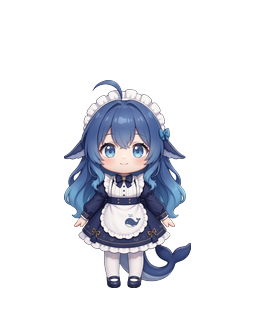
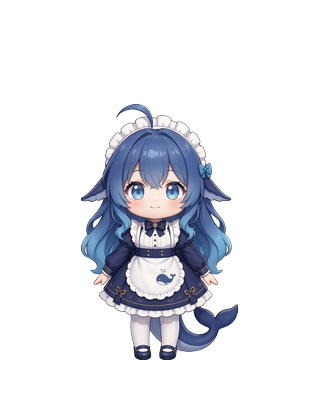
feat(pet): 渲染尺寸 104 → 128 CSS px，画布改 320x400
尺寸（-pet-char-height 104 → 128，目标区间 120~130）：
- 实测角色显示 127~128 px（上一版 104，+23%）
- 画布随之改 320x400，角色 256px = 64%，锚点 (160, 360)
- 显示缩放仍 0.5x → 窗口 160x200 CSS px
- 选 320x400/0.5x 的原因：2x Retina 下 128 CSS px = 256 设备像素
  = 画布角色高度，像素级对齐
- main.swift 窗口 128x160 → 160x200，命中区重算
- 仍未加入 Size Slider

占位素材按新几何重排（从 gen2 原始渲染重新抠图，避免二次缩放）：
- 320x400 画布、角色 157x256、脚底 y=360、头顶留白 104、脚下留白 40

ASSET_SPEC v3（v2 数值作废）：
- 画布/锚点/留白/显示尺寸全部重算
- 比例预算按 H=256 重算（头 141 / 躯干 64 / 腿 51，仍 1.82 heads）
- 可读性阈值随尺寸上调（眼睛 ≥ 24 画布 px）
- 精灵图每行 6 帧（6x320=1920px）
- 明确标注：占位素材是旧设计(2.5~3 heads)，头身比必须靠新素材解决，
  runtime 不会用 CSS scale/transform 伪装比例

diff --git a/desktop/main.swift b/desktop/main.swift
@@ -40,11 +40,11 @@ final class AppDelegate: NSObject, NSApplicationDelegate {
     var pinned = true
     var moveMonitor: Any?
 
-    // 窗口 = 素材画布的实际显示尺寸（256×320 画布 @ 0.5 缩放）。
-    // 角色本体占画布高度 65%，对应屏幕高度 104 CSS px。
+    // 窗口 = 素材画布的实际显示尺寸（320×400 画布 @ 0.5 缩放）。
+    // 角色本体占画布高度 64%，对应屏幕高度 128 CSS px。
     // 改大小：同时改 web/pet.css 的 --pet-char-height 和这两个值。
-    let winW: CGFloat = 128
-    let winH: CGFloat = 160
+    let winW: CGFloat = 160
+    let winH: CGFloat = 200
 
     func applicationDidFinishLaunching(_ notification: Notification) {
         NSApp.setActivationPolicy(.accessory)      // 不占 Dock
@@ -105,12 +105,12 @@ final class AppDelegate: NSObject, NSApplicationDelegate {
         guard !dragging else { return }
         let mouse = NSEvent.mouseLocation
         let f = window.frame
-        // 角色本体在画布里的位置：x 25%~75%，y（自底）10%~75%。
+        // 角色本体在画布里的位置：x 25%~75%，y（自底）10%~74%。
         // 命中区只覆盖角色，其余区域穿透鼠标。
-        let hit = NSRect(x: f.minX + f.width * 0.22,
+        let hit = NSRect(x: f.minX + f.width * 0.23,
                          y: f.minY + f.height * 0.07,
-                         width: f.width * 0.56,
-                         height: f.height * 0.71)
+                         width: f.width * 0.54,
+                         height: f.height * 0.70)
         window.ignoresMouseEvents = !hit.contains(mouse)
     }
 

diff --git a/web/pet.css b/web/pet.css
@@ -19,11 +19,11 @@ html, body {
    Asset 分辨率与渲染尺寸彻底解耦。
    以后要改大小，只动 --pet-char-height 这一个值。 */
 :root {
-  /* 角色本体的屏幕显示高度。目标 96~112 CSS px（Codex Pet 量级）。 */
-  --pet-char-height: 104px;
+  /* 角色本体的屏幕显示高度。目标 120~130 CSS px。 */
+  --pet-char-height: 128px;
   /* 角色在画布中的高度占比 —— 由素材规格决定，见 ASSET_SPEC.md §1 */
-  --pet-char-in-canvas: 0.65;
-  /* 画布宽高比 256 : 320 */
+  --pet-char-in-canvas: 0.64;
+  /* 画布宽高比 320 : 400 */
   --pet-aspect: 0.8;
   /* 由上面推导，不要直接改 */
   --pet-canvas-height: calc(var(--pet-char-height) / var(--pet-char-in-canvas));
@@ -44,7 +44,7 @@ html, body {
   width: calc(var(--pet-canvas-height) * var(--pet-aspect));
   cursor: grab;
   /* 沿角色轮廓投影（不是 box-shadow），制造"浮在桌面上"的感觉 */
-  filter: drop-shadow(0 5px 9px rgba(20, 30, 60, .22));
+  filter: drop-shadow(0 6px 11px rgba(20, 30, 60, .22));
   transform-origin: 50% 100%;
   transition: filter .25s ease;
   animation: petBreathe 3.8s ease-in-out infinite;

diff --git a/ASSET_SPEC.md b/ASSET_SPEC.md
@@ -1,10 +1,8 @@
-# WorkBuddy Pet — Character Asset Specification (v2)
+# WorkBuddy Pet — Character Asset Specification (v3)
 
 > 面向「制作素材的人 / 模型」。**按动画剪辑组织**，不是姿势图片。
-> v2 相对 v1 的变化：渲染尺寸与画布几何重定、身体比例收敛到 Desktop Mascot 比例、
-> 剪辑清单对齐到 10 个。
->
-> **v2 全表以此为唯一依据，v1 的旧数值（384×512 画布等）全部作废。**
+> v3 相对 v2 的变化：渲染尺寸 104 → **128 CSS px**，画布随之改为 **320 × 400**。
+> **v3 全表以此为唯一依据，v2 / v1 的旧数值全部作废。**
 
 ---
 
@@ -12,17 +10,20 @@
 
 | 概念 | 值 | 谁决定 |
 |---|---|---|
-| **Asset Resolution（素材分辨率）** | 单帧画布 **256 × 320** | 出图时定，保证 Retina 清晰 |
-| **Rendered Size（屏幕渲染尺寸）** | 角色本体 **104 CSS px 高** | 运行时一个配置项决定 |
+| **Asset Resolution（素材分辨率）** | 单帧画布 **320 × 400**（**可以更高**，如 512×640） | 出图时定，保证 Retina 清晰 |
+| **Rendered Size（屏幕渲染尺寸）** | 角色本体 **128 CSS px 高** | 运行时一个配置项决定 |
 
-**不要因为画布是 256×320 就按原始像素显示。** 两者完全解耦：
-画布按 2× 于渲染尺寸出图，屏幕上只占 128×160 CSS px。
+**不要因为画布是 320×400 就按原始像素显示。** 两者完全解耦：
+画布按 **0.5×** 显示 → 屏幕上只占 **160 × 200 CSS px**，角色本体 128 CSS px。
+
+在 **2× Retina** 上：128 CSS px = 256 设备像素 = 画布上的角色高度 → **像素级对齐，最清晰**。
+这也是选 320×400 / 0.5× 这组数的原因。画布可以出得更大（如 512×640），同样按 0.5× 显示即可。
 
 改大小的唯一旋钮（我这边已实现，你不需要管）：
 
 ```
-web/pet.css  →  --pet-char-height: 104px;     /* 目标区间 96~112 */
-desktop/main.swift → winW = 128, winH = 160   /* 画布显示尺寸 */
+web/pet.css  →  --pet-char-height: 128px;      /* 目标区间 120~130 */
+desktop/main.swift → winW = 160, winH = 200    /* 画布显示尺寸 */
 ```
 
 **当前版本不提供大小调节 UI**，只保留这个默认值。
@@ -33,64 +34,66 @@ desktop/main.swift → winW = 128, winH = 160   /* 画布显示尺寸 */
 
 | 项 | 规格 |
 |---|---|
-| **单帧画布** | **256 × 320 px**（4:5） |
-| **锚点 / Pivot** | **双脚中心 = (128, 288)**，即 `x = 50%, y = 90%` |
-| **角色高度** | **208 px = 画布的 65%** |
-| **脚下留白** | **32 px**（画布底 → 脚底）→ 落地压缩、下蹲用 |
-| **头顶留白** | **80 px**（头顶 → 画布顶）→ 跳跃、举手、被抓起用 |
-| **显示缩放** | **0.5×** → 画布显示为 128×160 CSS px，角色 = 104 CSS px |
+| **单帧画布** | **320 × 400 px**（4:5） |
+| **锚点 / Pivot** | **双脚中心 = (160, 360)**，即 `x = 50%, y = 90%` |
+| **角色高度** | **256 px = 画布的 64%** |
+| **脚下留白** | **40 px**（画布底 → 脚底）→ 落地压缩、下蹲用 |
+| **头顶留白** | **104 px**（头顶 → 画布顶）→ 跳跃、举手、被抓起用 |
+| **显示缩放** | **0.5×** → 画布显示为 160×200 CSS px，角色 = 128 CSS px |
 | **背景** | 全透明 RGBA，四角 `alpha = 0` |
-| **对齐要求** | **所有帧**脚底落在 `y = 288 ± 4`，水平中心落在 `x = 128 ± 6` |
+| **对齐要求** | **所有帧**脚底落在 `y = 360 ± 5`，水平中心落在 `x = 160 ± 8` |
 
 > 锚点统一是硬要求。锚点一飘，切换剪辑时角色就会上下跳。
 
 ### 精灵图排列
 
-- 一行一个剪辑，**水平条带，每行最多 8 帧**，超出换行
+- 一行一个剪辑，**水平条带，每行最多 6 帧**，超出换行
+  （6 × 320 = 1920 px，安全宽度）
 - 帧与帧**无间隙**，从左到右、从上到下
-- 每帧严格 256×320；12 帧 → 2 行（8 + 4），第二行右侧补透明
+- 每帧严格 320×400；12 帧 → 2 行（6 + 6）
 
 ---
 
 ## 2. 身体比例（这一版最重要的改动）
 
-当前素材是「小型动漫人物」，偏 2.5~3 heads。**要收敛到 Desktop Mascot 比例：**
+当前占位素材是「小型动漫人物」，约 2.5~3 heads —— **那不是最终版**。
+**要收敛到 Desktop Mascot 比例：**
 
 ### 目标：整个角色只有 **1.7 ~ 1.9 个头高**
 
-以 `H = 208 px`（角色总高）为基准：
+以 `H = 256 px`（角色总高）为基准：
 
 | 部位 | 占比 | 像素 | 说明 |
 |---|---|---|---|
-| **头**（颅顶 → 下巴，含头发体积） | **0.55 H** | **≈ 114 px** | 非常大、圆润，**视觉中心** |
-| **躯干**（下巴 → 胯） | **0.25 H** | **≈ 52 px** | 明显缩短，**不要腰身、不要长躯干** |
-| **腿 + 鞋**（胯 → 脚底） | **0.20 H** | **≈ 42 px** | 非常短 |
-| 合计 | 1.00 H | 208 px | → **1.82 heads** ✓ |
+| **头**（颅顶 → 下巴，含头发体积） | **0.55 H** | **≈ 141 px** | 非常大、圆润，**视觉中心** |
+| **躯干**（下巴 → 胯） | **0.25 H** | **≈ 64 px** | 明显缩短，**不要腰身、不要长躯干** |
+| **腿 + 鞋**（胯 → 脚底） | **0.20 H** | **≈ 51 px** | 非常短 |
+| 合计 | 1.00 H | 256 px | → **1.82 heads** ✓ |
 
 ### 横向与四肢
 
 | 项 | 规格 | 像素 |
 |---|---|---|
-| 头宽 | ≈ 0.52 H（接近头高，圆润） | ≈ 108 px |
-| 肩宽 | ≈ 0.30 H | ≈ 62 px |
-| 手臂长度 | ≈ 0.18 H（**短、小、圆**） | ≈ 37 px |
-| 手臂粗细 | ≈ 0.055 H | ≈ 11 px |
-| 手 | 小圆球 | 直径 ≈ 15 px |
-| 鞋长 | 小 | ≈ 21 px |
-| **整体 bounding box 宽** | **≤ 0.80 H** | **≤ 166 px**（画布 256 的 65%） |
+| 头宽 | ≈ 0.52 H（接近头高，圆润） | ≈ 133 px |
+| 肩宽 | ≈ 0.30 H | ≈ 77 px |
+| 手臂长度 | ≈ 0.18 H（**短、小、圆**） | ≈ 46 px |
+| 手臂粗细 | ≈ 0.055 H | ≈ 14 px |
+| 手 | 小圆球 | 直径 ≈ 18 px |
+| 鞋长 | 小 | ≈ 26 px |
+| **整体 bounding box 宽** | **≤ 0.80 H** | **≤ 205 px**（画布 320 的 64%） |
 
 **禁止**：正常人体比例的长手臂、明显腰线、修长腿。不能看起来像"缩小的人类"。
 
 ### 头发（关键，容易把角色撑大）
 
-- 保留蓝色长发 identity，但**压缩长度与横向展开**
-- **发梢末端不得低于「脚底往上 0.15 H」**（≈ 31 px）—— 即**不要拖到脚**
+- 保留蓝色长发 identity，但**压缩长度与横向展开（shape compression）**
+- **发梢末端不得低于「脚底往上 0.15 H」**（≈ 38 px）—— 即**不要拖到脚**
 - **横向展开 ≤ 0.42 H**（每侧 ≤ 0.21 H）
 - 后发的"体积"计入头高，但飘散的细发丝不计入 bounding box 预算
 
 ### 尾巴（Species Identity，允许略大）
 
-- 可以比身体略大 —— 这是最重要的识别特征
+- 可以比身体略大 —— 这是最重要的识别特征，**要相对醒目**
 - 但**横向展开 ≤ 0.35 H**，**垂直高度 ≤ 0.25 H**
 - **不允许尾巴把整体 bounding box 撑宽**（尾巴要收在 0.80 H 的预算内）
 
@@ -102,17 +105,17 @@ desktop/main.swift → winW = 128, winH = 160   /* 画布显示尺寸 */
 
 ---
 
-## 3. 小尺寸可读性（104 px 下的硬约束）
+## 3. 小尺寸可读性（128 px 下的硬约束）
 
-角色在屏幕上只有 104 px 高，**动画不能依赖细微动作**。换算关系：
-**1 画布 px ≈ 0.5 CSS px**，所以最小可辨笔画 **≥ 8 画布 px（= 4 CSS px）**。
+角色在屏幕上只有 128 px 高，**动画不能依赖细微动作**。换算关系：
+**1 画布 px = 0.5 CSS px**，所以最小可辨笔画 **≥ 8 画布 px（= 4 CSS px）**。
 
 | 部位 | 最小尺寸 | 画布 px |
 |---|---|---|
-| 眼睛（直径） | 主识别区，要大 | **≥ 20 px** |
-| 嘴（高度） | 大表情才画 | ≥ 6 px |
+| 眼睛（直径） | 主识别区，要大 | **≥ 24 px** |
+| 嘴（高度） | 大表情才画 | ≥ 8 px |
 | 头部轮廓 | 必须清晰 | — |
-| 尾巴宽度 | 摆动要看得见 | ≥ 12 px |
+| 尾巴宽度 | 摆动要看得见 | ≥ 15 px |
 
 **语义必须靠这些表达**：
 头部角度 / 整体姿态 / 尾巴方向 / 大表情 / 道具轮廓（如小电脑）
@@ -237,7 +240,7 @@ desktop/main.swift → winW = 128, winH = 160   /* 画布显示尺寸 */
 
 ### 7) `work` — 12 帧 / 10fps / 循环
 
-**不要画手指敲键盘**（104px 下看不见）。用**大姿态**表达：
+**不要画手指敲键盘**（128px 下看不见）。用**大姿态**表达：
 
 | 帧 | 相位 |
 |---|---|
@@ -326,13 +329,13 @@ assets/pet/
 
 ```json
 {
-  "version": 2,
-  "canvas":  { "w": 256, "h": 320 },
+  "version": 3,
+  "canvas":  { "w": 320, "h": 400 },
   "anchor":  { "x": 0.5, "y": 0.9 },
-  "charHeightPx": 208,
-  "charRatioInCanvas": 0.65,
-  "displayCharHeightCss": 104,
-  "columns": 8,
+  "charHeightPx": 256,
+  "charRatioInCanvas": 0.64,
+  "displayCharHeightCss": 128,
+  "columns": 6,
   "clips": {
     "idle":    { "frames": 20, "fps": 10, "loop": true },
     "run":     { "frames": 12, "fps": 16, "loop": true,  "flipForLeft": true },
@@ -353,16 +356,16 @@ assets/pet/
 ## 10. 验收标准（我拿到素材后逐条检查）
 
 1. 全部 PNG **RGBA**，四角 `alpha = 0`（无白底 / 棋盘格 / 光晕残留）
-2. 每帧严格 **256×320**，帧数符合 §4
-3. **所有帧**脚底 `y = 288 ± 4`、水平中心 `x = 128 ± 6`
-4. 角色高度 ≈ **208 px（65%）**；整体 bounding box 宽 **≤ 166 px**
-5. **头身比 1.7~1.9**（头高 ≈ 0.55 H）
+2. 每帧严格 **320×400**，帧数符合 §4
+3. **所有帧**脚底 `y = 360 ± 5`、水平中心 `x = 160 ± 8`
+4. 角色高度 ≈ **256 px（64%）**；整体 bounding box 宽 **≤ 205 px**
+5. **头身比 1.7~1.9**（头高 ≈ 0.55 H = 141 px）
 6. 发梢**不拖到脚**；尾巴**未撑宽 bounding box**
 7. 循环剪辑首尾同姿；非循环剪辑首尾回到 `idle_001`
 8. `idle` 肉眼可见呼吸 + 尾巴摆动 + 2 次眨眼
 9. `run` 有可辨的两步循环与腾空帧
 10. `jump` 有下蹲 / 拉长 / 腾空 / 触地压缩四个可辨阶段
-11. **缩到 104px 显示时**，眼睛、头部动作、尾巴摆动仍然清晰可读
+11. **缩到 128px 显示时**，眼睛、头部动作、尾巴摆动仍然清晰可读
 12. 二级运动在 `jump` / `run` / `drag` 中肉眼可辨
 
 任何一条不满足我都会指出来，**不会用低质量素材硬凑**。
@@ -384,6 +387,10 @@ assets/pet/
 ## 12. 前置说明
 
 第 1 批到位前，**runtime 继续用现有占位素材**（已按新画布几何重排：
-256×320 画布、角色 208px、脚底 y=288），只做静态展示，不做任何动画拼凑。
+**320×400 画布、角色 256px = 64%、脚底 y=360**），只做静态展示，不做任何动画拼凑。
+
+⚠ **当前占位素材是旧的角色设计（约 2.5~3 heads），不是最终比例。**
+它只用于把 Runtime、尺寸、锚点、窗口几何调通 —— **头身比必须靠新素材解决，
+runtime 不会用 CSS scale / transform 去伪装比例。**
 
 新素材到位后我会先跑 §10 验收，再进 S2 Animation Runtime。
